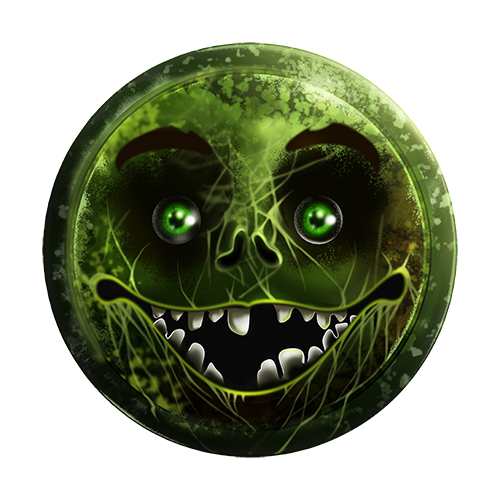
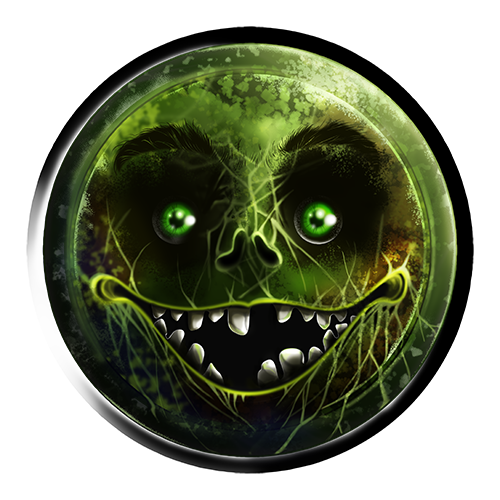
Add files via upload

diff --git a/styles_two.css b/styles_two.css
@@ -1,0 +1,214 @@
+
+body {
+    background-color: #3C3B3B;
+    color:azure;
+    display: flex;
+    flex-direction: column;
+    align-items: center;
+    justify-content: center;
+}
+
+container {
+    margin-left : auto; 
+    margin-right: auto;
+}
+
+header {
+    margin-left : auto; 
+    margin-right: auto;
+    display: flex;
+    flex-direction: column;
+    align-items: stretch;
+    height: auto;
+}
+
+content {
+    position: relative; 
+    margin-left: auto;
+    margin-right : auto;
+    padding: 5px; 
+    display : flex;
+    flex-direction: column;
+    height: auto;
+}
+
+p {
+    font-family: Arial;
+    font-size: 14px; 
+    justify-content: center;
+    text-justify: center;    
+}
+
+h1 {
+    margin-left: 20px;
+    margin-right : 20px; 
+}
+
+
+button {
+    background-color: #252323;
+    color : azure;
+    height: 100px; 
+    width: 100px;
+    border-radius: 50%;
+    margin-top: 20px; 
+    margin-right: 40px;
+    margin-left:40px;
+    margin-bottom: 5px;
+    cursor: pointer;
+    font-size: 10px;
+}
+
+button.blue{
+    background-color: #4531C2;
+}
+button.green{
+    background-color: #569106;
+}
+button.red{
+    background-color: #970A0D;
+}
+
+
+a:link {}
+a:visited {
+    color: #5C5252;
+}
+a:hover {
+    color: #50A44F;
+}
+a:focus {}
+a:active {}
+
+footer{
+    display: flex;
+    position:relative;
+    flex-direction: row ;
+    align-items: center;
+    margin-top:20px;
+    margin-left : auto; 
+    margin-right: auto;
+    height: 70px;
+    background-color:#222222;
+    border : solid #630708 5px; 
+    border-radius : 10px;
+    font-family: Cometbus, "Denne's Old Handwriting", "Dirty Ames Dirty Ames", "DIRTY CLASSIC";
+}
+
+.home{
+    display:flex;
+    float:left; 
+    max-height:70px;
+}
+
+.liens{
+    display:flex;
+    position:relative;
+    flex-direction:row;
+     align-items: center;
+    margin-top:5px;
+    margin-bottom:15px;
+    margin-left : auto; 
+    margin-right: auto;
+    background-color:#C8C8C8;
+    color:#222222;
+    border-radius:5px;
+}
+.lien_1{
+    display:flex;
+    margin-left:auto;
+    margin-right:auto;
+}
+.lien_2{
+    display:flex;
+    margin-left:auto;
+    margin-right:auto;
+}
+.lien_3{
+    display:flex;
+    margin-left:auto;
+    margin-right:auto;
+}
+.lien_4{
+    display:flex;
+    margin-left:auto;
+    margin-right:auto;
+}
+.lien_5{
+    display:flex;
+    margin-left:auto;
+    margin-right:auto;
+}
+.lien_6{
+    display:flex;
+    margin-left:auto;
+    margin-right:auto;
+}
+.grand_titre {
+    display: flex;
+    flex-direction: row ;
+    align-items: center;
+    margin-left : auto; 
+    margin-right: auto;
+    background-color: #222222;
+    border : solid #630708 5px; 
+    border-radius : 10px;
+    font-family: Cometbus, "Denne's Old Handwriting", "Dirty Ames Dirty Ames", "DIRTY CLASSIC";
+}
+
+.bleue{
+    display:flex;
+    position: relative;
+    margin-left: auto;
+    margin-right: auto;
+    height: 300px;
+    width: 300px;
+    border-radius: 50%;
+    border: solid black 30px;
+}
+#gemme_bleue{
+    max-width:350px;
+}
+
+.rouge{
+    display:flex;
+    position: relative;
+    float: left;
+    margin-top: -150px;
+    margin-right: auto; 
+    height: 300px;
+    width: 300px;
+    border-radius: 50%;
+    border: solid black 30px;
+}
+#gemme_rouge{
+    max-width:350px;
+}
+.vert{
+    display:flex;
+    position: relative;
+    float: right;
+    margin-top: -150px;
+    margin-left: auto;
+    height: 300px;
+    width: 300px;
+    border-radius: 50%;
+    border: solid black 30px;
+}
+#gemme_vert{
+    max-width:350px;
+}
+
+.violet{
+    display:flex;
+    margin-top: -150px;
+    margin-left: auto;
+    margin-right: auto;
+    height: 300px;
+    width: 300px;
+    border-radius: 50%;
+    border: solid black 30px;
+}
+#gemme_violet{
+    max-width:350px;
+}

diff --git a/pagetwo.html b/pagetwo.html
@@ -1,0 +1,53 @@
+<!doctype html>
+<html>
+<head>
+<meta charset="UTF-8">
+<title>Udémy</title> 
+<link href = "styles_two.css" rel="stylesheet"/>    
+<link rel="icon" type="image/png" size="48x48" href="favicon.ico"/>    
+</head>
+
+<body>
+
+    <container>
+
+        <header>
+            <div class="grand_titre">
+                <div class="Home_back"><a href="index.html"><img class="home" src="images/smiley_1.png"></a><img/></div>
+                <h1 id="titre_principal"> EXERCICES HTML / CSS / JS,  avec UDEMY et NEBRA</h1>
+            </div>
+        </header>
+
+        <div class="liens" id="vers_pages">
+            <p class="lien_1"><a href="pagetwo.html">...vers Page Two !</a></p>
+            <p class="lien_2"><a href="page2.html">Lien 2</a></p>
+            <p class="lien_3"><a href="page2.html">Lien 3</a></p>
+            <p class="lien_4"><a href="page2.html">Lien 4</a></p>
+            <p class="lien_5"><a href="page2.html">Lien 5</a></p>
+            <p class="lien_6"><a href="page2.html">Lien 6</a></p>
+        </div>
+
+
+        <content class="quatre_sphères">
+            <div>
+                <div class="bleue"><img id="gemme_bleue" src="images/bouton_bleu.png"></img></div>
+            </div>
+            <div>
+                <div class="rouge"><img id="gemme_rouge" src="images/bouton_rouge.png"></img></div>
+                <div class="vert"><img id="gemme_vert" src="images/bouton_vert.png"></img></div>
+            </div>
+            <div>
+                <div class="violet"><img id="gemme_violet" src="images/bouton_violet.png"></img></div>
+            </div>
+
+        </content>
+
+
+        <footer>
+
+        </footer>
+
+    </container>
+
+</body>
+

diff --git a/pagethree.html b/pagethree.html
@@ -1,0 +1,43 @@
+<!doctype html>
+<html>
+<head>
+<meta charset="UTF-8">
+<title>Udémy</title>
+<link href = "styles.css" rel="stylesheet"/>    
+<link rel="icon" type="image/png" size="48x48" href="favicon.ico"/>    
+</head>
+
+<body>
+
+    <container>
+
+        <header>
+            <div class="grand_titre">
+                <div class="Home_back"><a href="index.html"><img class="home" src="images/smiley_1.png"></a><img/></div>
+                <h1 id="titre_principal"> EXERCICES HTML / CSS / JS,  avec UDEMY et NEBRA</h1>
+            </div>
+        </header>
+
+        <div class="liens" id="vers_pages">
+            <p class="lien_1"><a href="pagetwo.html">...vers Page Two !</a></p>
+            <p class="lien_2"><a href="page2.html">Lien 2</a></p>
+            <p class="lien_3"><a href="page2.html">Lien 3</a></p>
+            <p class="lien_4"><a href="page2.html">Lien 4</a></p>
+            <p class="lien_5"><a href="page2.html">Lien 5</a></p>
+            <p class="lien_6"><a href="page2.html">Lien 6</a></p>
+        </div>
+
+
+        <content>
+
+        </content>
+
+
+        <footer>
+
+        </footer>
+
+    </container>
+
+</body>
+
